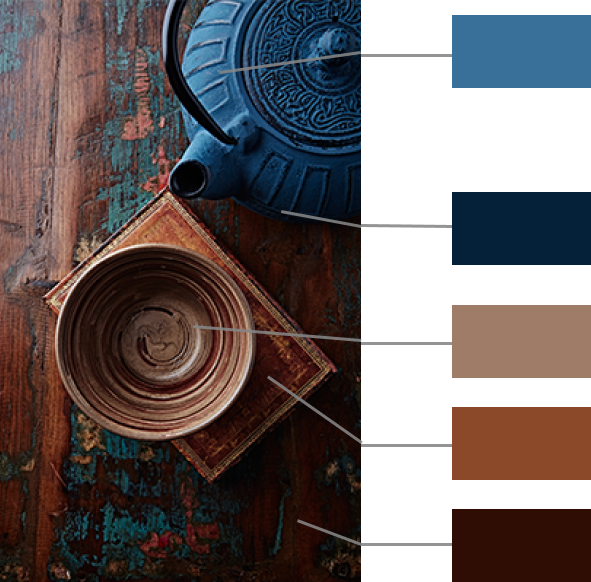
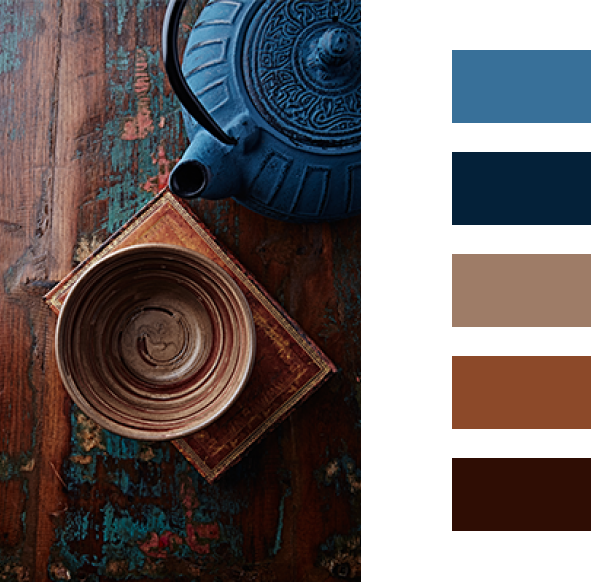
perbaikan output

diff --git a/resources/css/color.css b/resources/css/color.css
@@ -77,6 +77,7 @@ body {
 }
 
 .cont {
+    z-index: 1;
     height: 30vw;
     margin-left: 9vw;
 }
@@ -123,13 +124,28 @@ body {
 
 .output {
     background: white;
-    height: 35vw;
+    height: 45vw;
 }
 
 .output img {
-    width: 33vw;
+    width: 23vw;
 }
 
 .output h1 {
     font-size: 2vw;
+}
+
+.boxes {
+    width: 60%;
+    display: flex;
+    margin-top: 2vw;
+    flex-direction: row;
+    justify-content: space-around;
+    /* border: 1px solid black; */
+}
+
+.box {
+    width: 15%;
+    height: 5vw;
+    /* border: 1px solid black; */
 }

diff --git a/resources/views/coloroutput.blade.php b/resources/views/coloroutput.blade.php
@@ -21,6 +21,13 @@
         <div class="output my-10 mx-20 rounded-3xl flex justify-center items-center flex-col">
             <h1 class="font-bold text-black mb-4">YOUR IMAGE:</h1>
             <img src="img/imgcoloroutput.png" class="" alt="">
+            <div class="boxes">
+                <div class="box" style="background-color: #E28633"></div>
+                <div class="box" style="background-color: #783E16"></div>
+                <div class="box" style="background-color: #457A88"></div>
+                <div class="box" style="background-color: #114E63"></div>
+                <div class="box" style="background-color: #172D38"></div>
+            </div>
         </div>
         <h1 class="ml-20 text-4xl font-bold text-black">You Want More?</h1>
         <a href="/colorpaletteoutput" class="input rounded-3xl flex justify-center items-center flex-col hover:bg-slate-200 active:bg-slate-300"><img src="img/pict.png" class="w-28" alt="">
